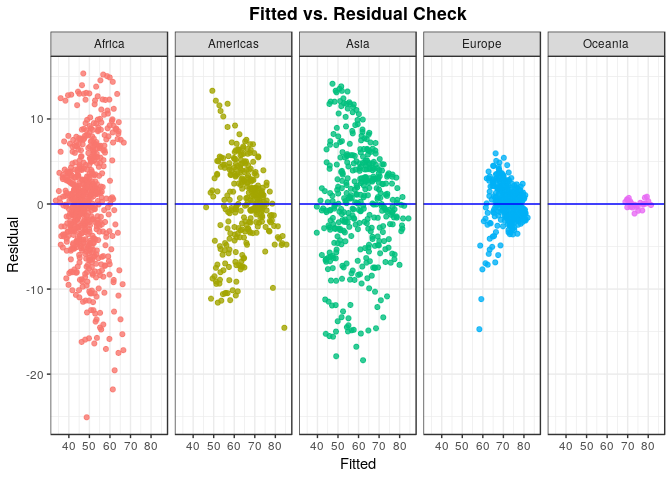
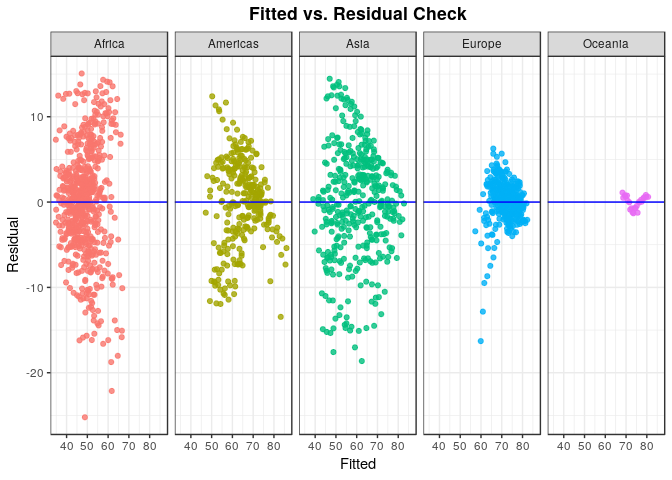
ml

diff --git a/source/Modeling_Workflow.md b/source/Modeling_Workflow.md
@@ -1,7 +1,7 @@
 Modeling Workflow
 ================
 Jesse Cambon
-16 September, 2018
+18 September, 2018
 
 -   [References](#references)
 -   [Setup](#setup)
@@ -23,7 +23,7 @@ Setup
 library(tidyverse)
 library(gapminder)
 library(broom)
-library(modelr)
+#library(modelr)
 library(knitr)
 library(kableExtra)
 ```
@@ -50,7 +50,7 @@ guides(color=guide_legend(override.aes = list(size=2.5)))
 
 ``` r
 ggplot(data=gapminder,
-          aes(x = log(gdpPercap), y = lifeExp, color = continent,group=1)) +
+          aes(x = log10(gdpPercap), y = lifeExp, color = continent,group=1)) +
 geom_point(alpha=0.7) +
 theme_bw() +
 geom_smooth() +
@@ -63,6 +63,22 @@ guides(color=guide_legend(override.aes = list(size=2.5)))
 
 ![](Modeling_Workflow_files/figure-markdown_github/explore-2.png)
 
+``` r
+ggplot(data=gapminder,
+          aes(x = log10(pop), y = lifeExp, color = continent,group=1)) +
+geom_point(alpha=0.7) +
+#facet_grid(~continent) +
+theme_bw() +
+geom_smooth() +
+theme(legend.position='top',
+  plot.title = element_text(lineheight=1, face="bold",hjust = 0.5)) + 
+guides(color=guide_legend(override.aes = list(size=2.5))) 
+```
+
+    ## `geom_smooth()` using method = 'gam' and formula 'y ~ s(x, bs = "cs")'
+
+![](Modeling_Workflow_files/figure-markdown_github/explore-3.png)
+
 Grouped Models
 --------------
 
@@ -70,14 +86,14 @@ Grouped Models
 # One model per continent
 models <- gapminder %>%
   group_by(continent) %>%
-  do(fit=lm(lifeExp ~ (log(gdpPercap)*log(pop)) + year, data=.)) 
+  do(fit=lm(lifeExp ~ log10(gdpPercap)+log10(pop) + year, data=.)) 
 
 stats <- glance(models,fit) %>%
   arrange(desc(r.squared))
 
 coefficients <- tidy(models,fit) %>%
   filter(term != '(Intercept)') %>%
-  arrange(continent,desc(p.value))
+  arrange(continent,p.value)
 
 fit_check <- augment(models,fit)
 ```
@@ -157,73 +173,73 @@ kable(stats,format='markdown',digits=2) %>%
 <tbody>
 <tr class="odd">
 <td align="left">Oceania</td>
-<td align="right">0.98</td>
-<td align="right">0.98</td>
-<td align="right">0.55</td>
-<td align="right">267.69</td>
+<td align="right">0.96</td>
+<td align="right">0.96</td>
+<td align="right">0.78</td>
+<td align="right">172.97</td>
 <td align="right">0</td>
-<td align="right">5</td>
-<td align="right">-16.97</td>
-<td align="right">45.93</td>
-<td align="right">53.00</td>
-<td align="right">5.78</td>
-<td align="right">19</td>
+<td align="right">4</td>
+<td align="right">-26.03</td>
+<td align="right">62.06</td>
+<td align="right">67.95</td>
+<td align="right">12.30</td>
+<td align="right">20</td>
 </tr>
 <tr class="even">
 <td align="left">Europe</td>
-<td align="right">0.82</td>
-<td align="right">0.82</td>
-<td align="right">2.32</td>
-<td align="right">401.67</td>
+<td align="right">0.80</td>
+<td align="right">0.80</td>
+<td align="right">2.41</td>
+<td align="right">487.82</td>
 <td align="right">0</td>
-<td align="right">5</td>
-<td align="right">-811.93</td>
-<td align="right">1635.85</td>
-<td align="right">1659.17</td>
-<td align="right">1917.78</td>
-<td align="right">355</td>
+<td align="right">4</td>
+<td align="right">-825.98</td>
+<td align="right">1661.96</td>
+<td align="right">1681.39</td>
+<td align="right">2073.54</td>
+<td align="right">356</td>
 </tr>
 <tr class="odd">
 <td align="left">Americas</td>
 <td align="right">0.72</td>
 <td align="right">0.72</td>
-<td align="right">4.94</td>
-<td align="right">193.54</td>
+<td align="right">4.96</td>
+<td align="right">255.52</td>
 <td align="right">0</td>
-<td align="right">5</td>
-<td align="right">-902.49</td>
-<td align="right">1816.98</td>
-<td align="right">1839.20</td>
-<td align="right">7204.74</td>
-<td align="right">295</td>
+<td align="right">4</td>
+<td align="right">-903.93</td>
+<td align="right">1817.85</td>
+<td align="right">1836.37</td>
+<td align="right">7274.08</td>
+<td align="right">296</td>
 </tr>
 <tr class="even">
 <td align="left">Asia</td>
 <td align="right">0.70</td>
 <td align="right">0.70</td>
-<td align="right">6.48</td>
-<td align="right">233.04</td>
+<td align="right">6.50</td>
+<td align="right">308.12</td>
 <td align="right">0</td>
-<td align="right">5</td>
-<td align="right">-1299.55</td>
-<td align="right">2611.11</td>
-<td align="right">2634.99</td>
-<td align="right">16431.20</td>
-<td align="right">391</td>
+<td align="right">4</td>
+<td align="right">-1301.08</td>
+<td align="right">2612.15</td>
+<td align="right">2632.06</td>
+<td align="right">16558.14</td>
+<td align="right">392</td>
 </tr>
 <tr class="odd">
 <td align="left">Africa</td>
-<td align="right">0.51</td>
 <td align="right">0.50</td>
-<td align="right">6.46</td>
-<td align="right">158.00</td>
+<td align="right">0.50</td>
+<td align="right">6.48</td>
+<td align="right">207.77</td>
 <td align="right">0</td>
-<td align="right">5</td>
-<td align="right">-2046.79</td>
-<td align="right">4105.58</td>
-<td align="right">4132.19</td>
-<td align="right">25809.37</td>
-<td align="right">619</td>
+<td align="right">4</td>
+<td align="right">-2049.22</td>
+<td align="right">4108.45</td>
+<td align="right">4130.63</td>
+<td align="right">26011.51</td>
+<td align="right">620</td>
 </tr>
 </tbody>
 </table>
@@ -233,28 +249,23 @@ kable(coefficients,format='markdown',digits=4) %>%
   kable_styling(bootstrap_options = c("striped",'border'))
 ```
 
-| continent | term                    |  estimate|  std.error|  statistic|  p.value|
-|:----------|:------------------------|---------:|----------:|----------:|--------:|
-| Africa    | log(gdpPercap)          |   -2.1548|     3.1663|    -0.6805|   0.4964|
-| Africa    | log(gdpPercap):log(pop) |    0.4601|     0.2090|     2.2018|   0.0280|
-| Africa    | log(pop)                |   -3.6438|     1.5592|    -2.3369|   0.0198|
-| Africa    | year                    |    0.2595|     0.0161|    16.0987|   0.0000|
-| Americas  | log(pop)                |    3.5029|     2.5847|     1.3552|   0.1764|
-| Americas  | log(gdpPercap):log(pop) |   -0.4837|     0.2871|    -1.6850|   0.0931|
-| Americas  | log(gdpPercap)          |   15.9641|     4.7199|     3.3823|   0.0008|
-| Americas  | year                    |    0.2620|     0.0183|    14.3191|   0.0000|
-| Asia      | log(gdpPercap)          |    1.7829|     2.1504|     0.8291|   0.4075|
-| Asia      | log(pop)                |   -0.9726|     1.0905|    -0.8920|   0.3730|
-| Asia      | log(gdpPercap):log(pop) |    0.2315|     0.1332|     1.7380|   0.0830|
-| Asia      | year                    |    0.2925|     0.0220|    13.2700|   0.0000|
-| Europe    | log(gdpPercap)          |   -5.9844|     2.0606|    -2.9043|   0.0039|
-| Europe    | log(gdpPercap):log(pop) |    0.7032|     0.1310|     5.3696|   0.0000|
-| Europe    | log(pop)                |   -7.0422|     1.2337|    -5.7080|   0.0000|
-| Europe    | year                    |    0.0969|     0.0088|    11.0761|   0.0000|
-| Oceania   | log(gdpPercap)          |  -57.6467|    12.9252|    -4.4600|   0.0003|
-| Oceania   | log(pop)                |  -30.5644|     6.6653|    -4.5856|   0.0002|
-| Oceania   | log(gdpPercap):log(pop) |    3.2094|     0.6931|     4.6306|   0.0002|
-| Oceania   | year                    |    0.3236|     0.0421|     7.6815|   0.0000|
+| continent | term             |  estimate|  std.error|  statistic|  p.value|
+|:----------|:-----------------|---------:|----------:|----------:|--------:|
+| Africa    | year             |    0.2551|     0.0160|    15.8991|   0.0000|
+| Africa    | log10(gdpPercap) |   11.0142|     0.7141|    15.4237|   0.0000|
+| Africa    | log10(pop)       |   -0.5390|     0.4192|    -1.2857|   0.1990|
+| Americas  | log10(gdpPercap) |   18.5492|     1.1513|    16.1118|   0.0000|
+| Americas  | year             |    0.2690|     0.0179|    15.0519|   0.0000|
+| Americas  | log10(pop)       |   -1.9190|     0.5545|    -3.4607|   0.0006|
+| Asia      | log10(gdpPercap) |   12.6233|     0.7074|    17.8454|   0.0000|
+| Asia      | year             |    0.2974|     0.0219|    13.5703|   0.0000|
+| Asia      | log10(pop)       |    2.0425|     0.4854|     4.2077|   0.0000|
+| Europe    | log10(gdpPercap) |   11.5695|     0.4930|    23.4667|   0.0000|
+| Europe    | year             |    0.1005|     0.0091|    11.0939|   0.0000|
+| Europe    | log10(pop)       |   -1.0054|     0.2244|    -4.4804|   0.0000|
+| Oceania   | year             |    0.1737|     0.0384|     4.5299|   0.0002|
+| Oceania   | log10(pop)       |    0.6644|     0.5984|     1.1102|   0.2801|
+| Oceania   | log10(gdpPercap) |    4.1229|     4.9721|     0.8292|   0.4168|
 
 Nested Models
 -------------
@@ -263,7 +274,7 @@ Now we create a similar model with nesting
 
 ``` r
 my_model <- function(df) {
-  lm(lifeExp ~ (log(gdpPercap)*log(pop)) + year, data= df)
+  lm(lifeExp ~ log10(gdpPercap)+log10(pop) + year, data= df)
 }
 
 # Nest models by continent 

diff --git a/source/Caret.md b/source/Caret.md
@@ -1,0 +1,86 @@
+Machine Learning with Caret
+================
+Jesse Cambon
+18 September, 2018
+
+-   [References](#references)
+-   [Setup](#setup)
+-   [Build Model](#build-model)
+
+Demonstrate a machine learning workflow with caret
+
+References
+----------
+
+-   <https://topepo.github.io/caret/model-training-and-tuning.html>
+
+Setup
+-----
+
+``` r
+library(tidyverse)
+#library(broom)
+library(knitr)
+library(kableExtra)
+library(caret)
+library(skimr)
+```
+
+Build Model
+-----------
+
+``` r
+library(mlbench) # machine learning reference datasets
+data(BreastCancer)
+
+skim(BreastCancer)
+
+BC <- BreastCancer %>% as_tibble() %>%
+  dplyr::select(-Id) %>%
+  drop_na() # should really use imputation but we'll do this for now
+
+# Use k-fold cross-validation
+TC <- trainControl(method="cv", number=10)
+
+# Neural Network
+nnet <- train(Class ~ .,  # decide out outcome variable
+               BC, # our dataset
+               trControl=TC,
+               method='nnet')
+nnet
+
+# SVM Radial
+svmRad <- train(Class ~ .,  # decide out outcome variable
+               BC, # our dataset
+               trControl=TC,
+               method='svmRadial')
+
+svmRad
+
+# Bayesian Logistic Regression
+logistic <- train(Class ~ .,  # decide out outcome variable
+               BC, # our dataset
+               trControl=TC,
+               method='bayesglm')
+
+logistic
+```
+
+``` r
+resamps <- resamples(list(neuralnet=nnet,
+                          SVMRad=svmRad,
+                          logistic=logistic))
+#resamps
+
+#'svmLinear','nnet','svmRadial'
+
+dotplot(resamps, metric = "Accuracy")
+```
+
+![](Caret_files/figure-markdown_github/results-1.png)
+
+``` r
+bwplot(diff(resamps))
+```
+
+![](Caret_files/figure-markdown_github/results-2.png)

diff --git a/README.md b/README.md
@@ -19,6 +19,7 @@ The purpose of this repository is to provide code and resources that can be quic
 * [Visualization Cookbook](source/Chart_Collection.md) - A wide variety of data visualizations demonstrated.
 * [Modeling Fundamentals](source/Titanic.md) - A primer on logistic and linear regression modeling with the classic Titanic dataset.
 * [Modeling Workflows](source/Modeling_Workflow.md) - Streamlined Tidyverse modeling workflows with the gapminder dataset.
+* [Machine Learning with Caret](source/Caret.md) - Using the Caret library to do machine learning.
 * [Geospatial Data Analysis](source/Geospatial_Analysis.md) - A work-in-progress collection of maps. 
 * [Creating Formatted Spreadsheets](source/Create_Formatted_Spreadsheet.md) - How to create a custom formatted spreadsheet report with the openxlsx R package.
 * [Resources](Resources.md) - Websites and references that I find helpful for data science projects.
